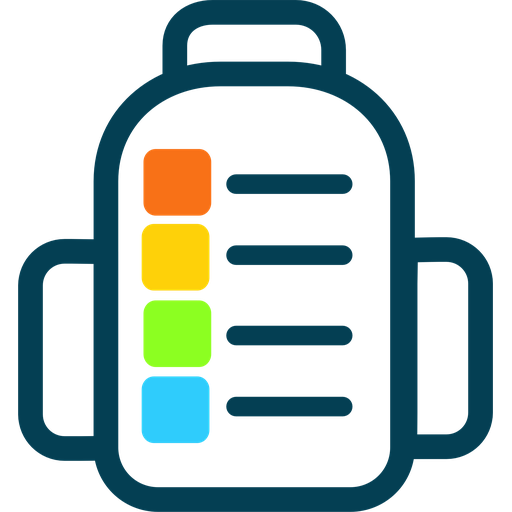
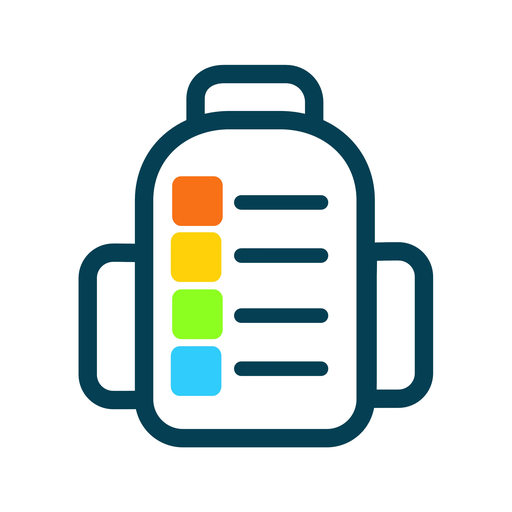
Polish mobile header and PWA install

diff --git a/styles.css b/styles.css
@@ -120,6 +120,7 @@ a {
 
 .brand-lockup > div {
   min-width: 0;
+  max-width: min(100%, 360px);
   justify-self: start;
   text-align: left;
 }
@@ -134,6 +135,8 @@ a {
 }
 
 #tripTitle {
+  display: block;
+  max-width: 100%;
   overflow: hidden;
   text-overflow: ellipsis;
   white-space: nowrap;
@@ -171,7 +174,7 @@ h3 {
 
 .trip-meta {
   width: 100%;
-  margin: 6px 0 12px;
+  margin: 6px 0 6px;
   padding: 0;
   border: 0;
   background: transparent;
@@ -184,6 +187,27 @@ h3 {
 
 .trip-meta::after {
   content: "";
+}
+
+.trip-budget-meta {
+  display: inline-flex;
+  align-items: center;
+  justify-content: center;
+  min-height: 28px;
+  max-width: 100%;
+  margin: 0 0 12px;
+  padding: 5px 10px;
+  border: 1px solid rgba(18, 54, 61, 0.18);
+  border-radius: 6px;
+  background: rgba(255, 253, 248, 0.74);
+  color: var(--brand);
+  box-shadow:
+    inset 1px 1px 0 rgba(255, 255, 255, 0.64),
+    3px 3px 0 rgba(18, 54, 61, 0.08);
+  font-size: 13px;
+  font-weight: 800;
+  text-align: left;
+  line-height: 1.15;
 }
 
 .header-actions {
@@ -686,6 +710,7 @@ h3 {
 #copyEstimateButton,
 #copyDaysButton,
 #refreshRatesButton,
+#openLinkButton,
 #tripForm .primary-button[type="submit"] {
   border-color: rgba(18, 54, 61, 0.34);
   background: var(--active-button-gradient);
@@ -719,6 +744,7 @@ h3 {
 #copyEstimateButton,
 #copyDaysButton,
 #refreshRatesButton,
+#openLinkButton,
 #tripForm .primary-button[type="submit"] {
   min-height: 40px;
   border-color: rgba(18, 54, 61, 0.34);
@@ -733,6 +759,21 @@ h3 {
   display: grid;
   place-items: center;
   font-size: 18px;
+}
+
+.link-open-button {
+  align-self: end;
+  min-height: 42px;
+  margin-top: 17px;
+}
+
+.link-open-button:disabled {
+  cursor: default;
+  border-color: var(--line);
+  background: rgba(255, 253, 248, 0.72);
+  color: var(--muted);
+  box-shadow: none;
+  opacity: 0.55;
 }
 
 #editTripButton {
@@ -1236,6 +1277,29 @@ textarea:focus {
 .toast.visible {
   opacity: 1;
   transform: translateY(0);
+}
+
+@media (max-width: 520px) {
+  .trip-header {
+    padding-inline: 12px;
+  }
+
+  .brand-row {
+    grid-template-columns: 46px minmax(0, 1fr) auto;
+    gap: 8px;
+  }
+
+  .brand-lockup > div {
+    max-width: calc(100vw - 222px);
+  }
+
+  .header-actions {
+    gap: 6px;
+  }
+
+  h1 {
+    font-size: 21px;
+  }
 }
 
 @media (min-width: 760px) {

diff --git a/app.js b/app.js
@@ -1,5 +1,6 @@
 const STORAGE_KEY = "backpacker.mvp.v1";
 const VIEW_STORAGE_KEY = "backpacker.currentView.v1";
+let deferredInstallPrompt = null;
 
 const itemTypes = [
   ["ticket", "Билет"],
@@ -373,7 +374,8 @@ function renderHeader() {
   const dates = getTripDates();
   const totals = getTotals();
   $("#tripTitle").textContent = state.trip.title || "Новая поездка";
-  $("#tripMeta").textContent = `${state.trip.destination || "Направление"} · ${formatDate(state.trip.startDate)}-${formatDate(state.trip.endDate)} · ${dates.length || 1} дня · бюджет ${formatMoney(state.trip.budgetLimit)}`;
+  $("#tripMeta").textContent = `${state.trip.destination || "Направление"} · ${formatDate(state.trip.startDate)}-${formatDate(state.trip.endDate)} · ${dates.length || 1} дня`;
+  $("#tripBudgetMeta").textContent = `Бюджет ${formatMoney(state.trip.budgetLimit)}`;
   $("#paidTotal").textContent = formatMoney(totals.paid);
   $("#plannedTotal").textContent = formatMoney(totals.possible);
   $("#remainingTotal").textContent = formatMoney(totals.remaining);
@@ -597,6 +599,7 @@ function openItemSheet(itemId = null) {
     form.elements.priority.value = "nice";
     form.elements.date.value = "";
   }
+  updateOpenLinkButton();
   openSheet("itemSheet");
 }
 
@@ -1061,6 +1064,42 @@ async function shareTrip() {
   showToast("Ссылка и сводка скопированы");
 }
 
+function getItemFormLink() {
+  return $("#itemForm").elements.link.value.trim();
+}
+
+function normalizeExternalUrl(value) {
+  if (!value) return "";
+  if (/^https?:\/\//i.test(value)) return value;
+  return `https://${value}`;
+}
+
+function updateOpenLinkButton() {
+  $("#openLinkButton").disabled = !getItemFormLink();
+}
+
+function openItemLink() {
+  const url = normalizeExternalUrl(getItemFormLink());
+  if (!url) return;
+  window.open(url, "_blank", "noopener,noreferrer");
+}
+
+async function installPwa() {
+  if (window.matchMedia("(display-mode: standalone)").matches || window.navigator.standalone) {
+    showToast("Приложение уже установлено");
+    return;
+  }
+
+  if (deferredInstallPrompt) {
+    deferredInstallPrompt.prompt();
+    await deferredInstallPrompt.userChoice.catch(() => null);
+    deferredInstallPrompt = null;
+    return;
+  }
+
+  showToast("Откройте меню браузера и выберите «Добавить на главный экран»");
+}
+
 async function copyText(text) {
   try {
     await navigator.clipboard.writeText(text);
@@ -1349,11 +1388,15 @@ function bindEvents() {
 
   $("#itemForm").addEventListener("submit", saveItem);
   $("#deleteItemButton").addEventListener("click", deleteCurrentItem);
+  $("#itemForm").elements.link.addEventListener("input", updateOpenLinkButton);
+  $("#openLinkButton").addEventListener("click", openItemLink);
   $("#editTripButton").addEventListener("click", openTripSheet);
   $("#tripMeta").addEventListener("click", openTripSheet);
+  $("#tripBudgetMeta").addEventListener("click", openTripSheet);
   $("#tripForm").addEventListener("submit", saveTrip);
   $("#resetDemoButton").addEventListener("click", resetDemo);
   $("#shareButton").addEventListener("click", openShareSheet);
+  $("#installAppButton").addEventListener("click", installPwa);
   $("#downloadEstimateButton").addEventListener("click", downloadEstimate);
   $("#downloadPlanButton").addEventListener("click", downloadPlan);
   $("#shareTripButton").addEventListener("click", shareTrip);
@@ -1371,6 +1414,11 @@ bindEvents();
 switchView(currentView);
 render();
 refreshExchangeRates();
+
+window.addEventListener("beforeinstallprompt", (event) => {
+  event.preventDefault();
+  deferredInstallPrompt = event;
+});
 
 if ("serviceWorker" in navigator && ["http:", "https:"].includes(window.location.protocol)) {
   navigator.serviceWorker.register("./service-worker.js").catch(() => {});

diff --git a/index.html b/index.html
@@ -9,7 +9,7 @@
     <meta name="apple-mobile-web-app-status-bar-style" content="default" />
     <title>Backpacker</title>
     <link rel="manifest" href="./manifest.webmanifest" />
-    <link rel="icon" href="./icons/backpacker-logo.svg" type="image/svg+xml" />
+    <link rel="icon" href="./icons/backpacker-192.png" type="image/png" />
     <link rel="apple-touch-icon" href="./icons/backpacker-192.png" />
     <link rel="stylesheet" href="./styles.css" />
   </head>
@@ -18,7 +18,7 @@
       <header class="trip-header">
         <div class="brand-row">
           <div class="brand-lockup">
-            <img class="brand-logo" src="./icons/backpacker-logo.svg" alt="" aria-hidden="true" />
+            <img class="brand-logo" src="./icons/backpacker-logo-transparent.png" alt="" aria-hidden="true" />
             <div>
               <h1 id="tripTitle">Казань соло</h1>
             </div>
@@ -42,7 +42,8 @@
             </a>
           </div>
         </div>
-        <button class="trip-meta" id="tripMeta" type="button">12-15 июля · 4 дня · бюджет 45 000 ₽</button>
+        <button class="trip-meta" id="tripMeta" type="button">Казань · 12 июля-15 июля · 4 дня</button>
+        <button class="trip-budget-meta" id="tripBudgetMeta" type="button">Бюджет 45 000 ₽</button>
         <section class="budget-strip" aria-label="Бюджет поездки">
           <div>
             <span>Оплачено</span>
@@ -243,6 +244,7 @@
             Ссылка
             <input name="link" inputmode="url" placeholder="Aviasales, Tripster, кафе, отель..." />
           </label>
+          <button class="ghost-button link-open-button" id="openLinkButton" type="button" disabled>Перейти</button>
           <label class="field wide">
             Локация
             <input name="locationText" placeholder="Адрес или район" />
@@ -321,6 +323,7 @@
           <button class="icon-button" data-close="share" type="button" aria-label="Закрыть">×</button>
         </header>
         <div class="share-actions">
+          <button class="ghost-button" id="installAppButton" type="button">Скачать PWA</button>
           <button class="primary-button" id="downloadEstimateButton" type="button">Скачать смету</button>
           <button class="ghost-button" id="downloadPlanButton" type="button">Скачать план по дням</button>
           <button class="ghost-button" id="shareTripButton" type="button">Поделиться</button>

diff --git a/service-worker.js b/service-worker.js
@@ -1,4 +1,4 @@
-const CACHE_NAME = "backpacker-pwa-v6";
+const CACHE_NAME = "backpacker-pwa-v7";
 const APP_SHELL = [
   "./",
   "./index.html",
@@ -8,6 +8,7 @@ const APP_SHELL = [
   "./manifest.webmanifest",
   "./icons/backpacker-192.png",
   "./icons/backpacker-512.png",
+  "./icons/backpacker-logo-transparent.png",
   "./icons/backpacker-logo.svg"
 ];
 